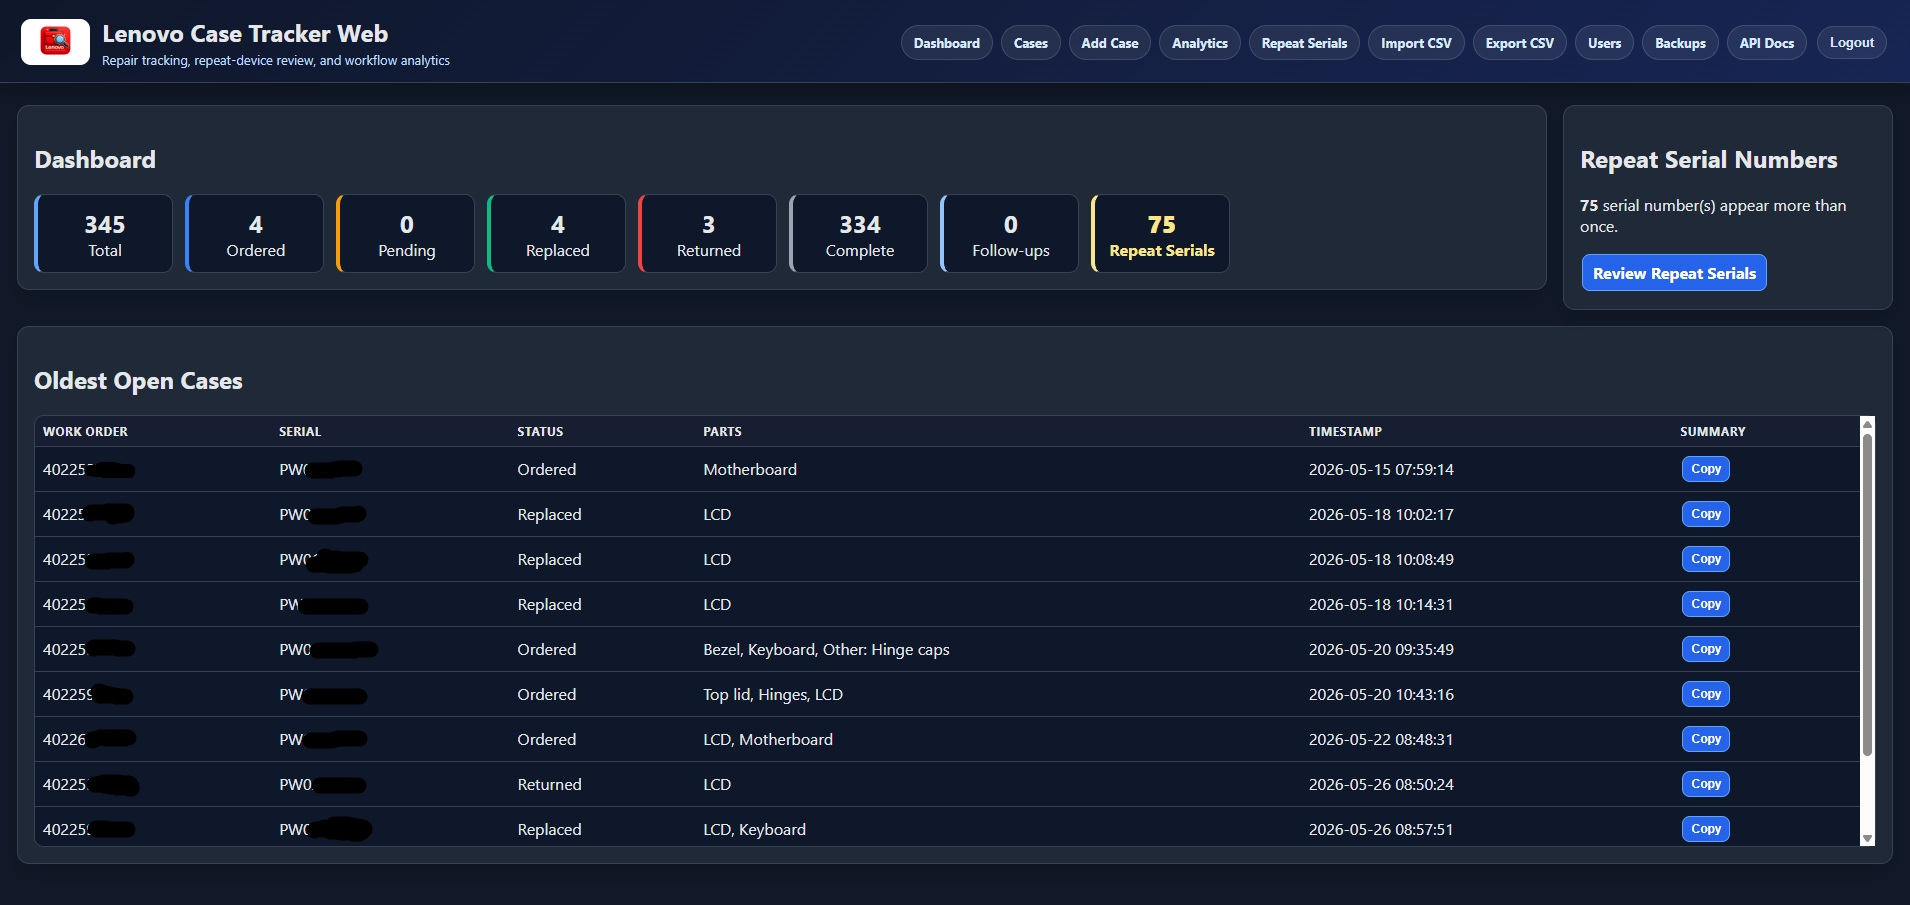
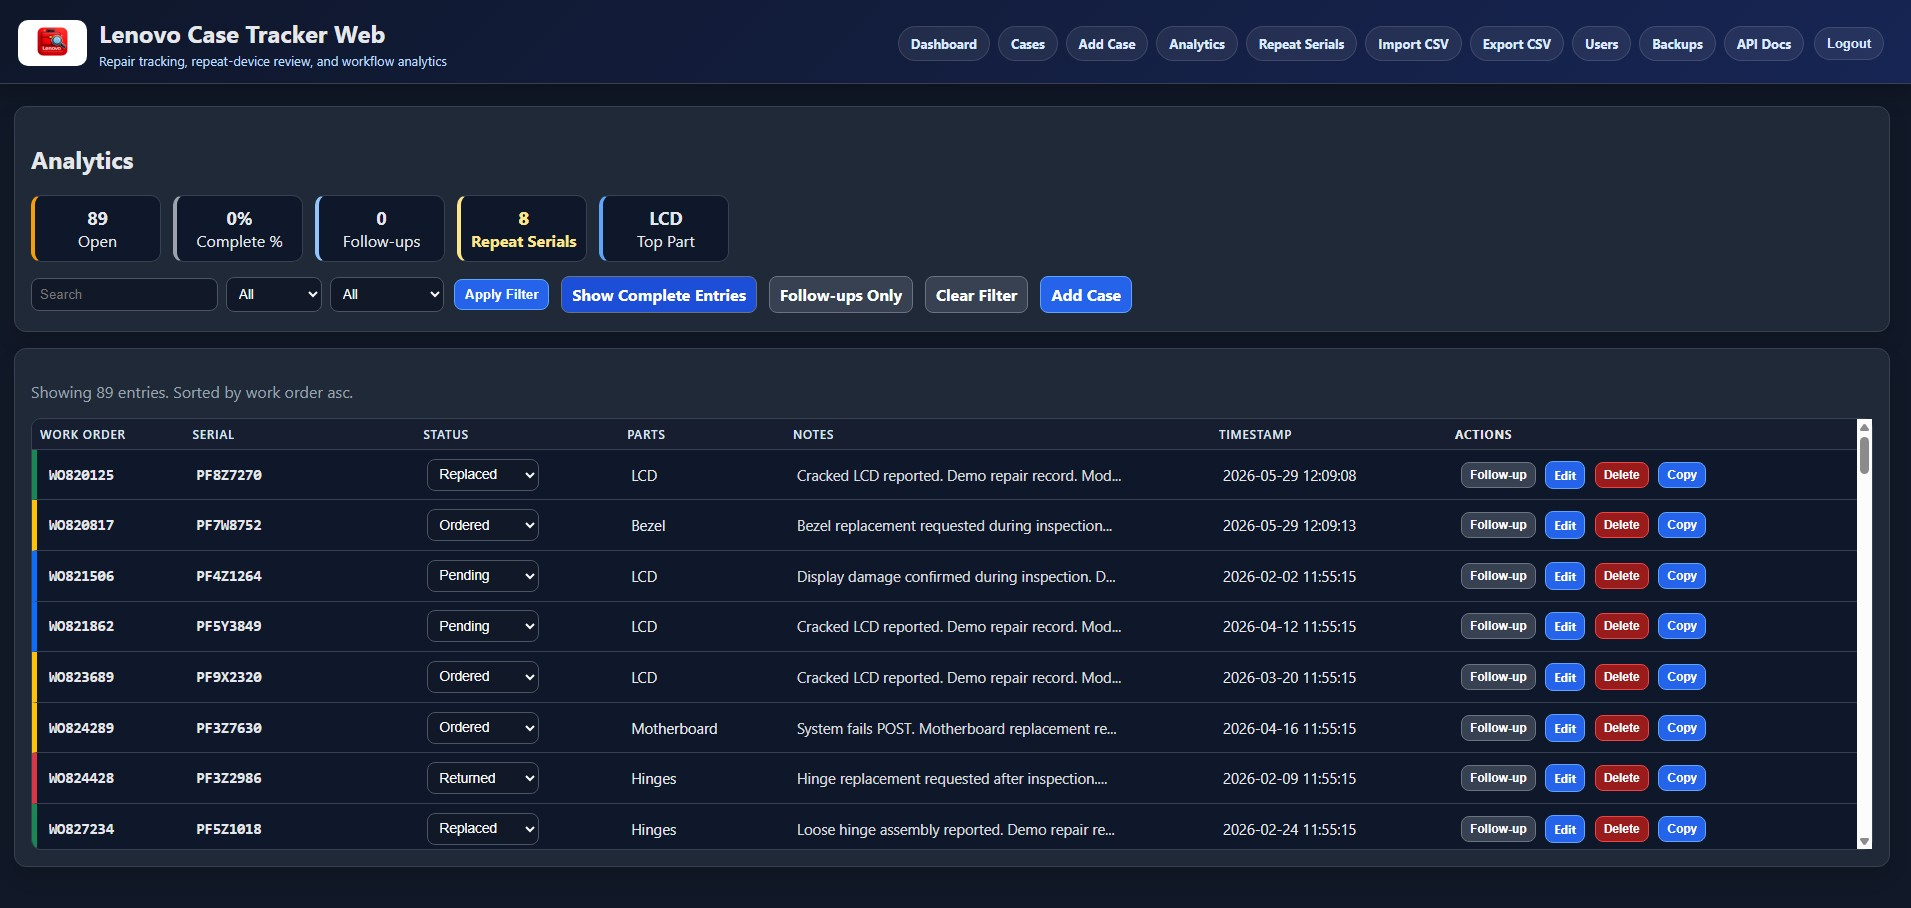
Added demo to README and updated Screenshot

diff --git a/README.md b/README.md
@@ -13,15 +13,33 @@ This project started as a desktop Python utility used for managing daily repair 
 
 ---
 
+
+## 📸 Screenshot
+
+![Lenovo Case Tracker Web Screenshot](assets/LCT_SS.jpg)
+
+---
+
 ## 🚀 Live Demo
 
 👉 https://lenovo-case-tracker-web.onrender.com/
 
 ---
 
-## 📸 Screenshot
+Demo Access
 
-![Lenovo Case Tracker Web Screenshot](assets/LCT_SS.jpg)
+Use the Continue as Demo User button on the login page to explore the application immediately.
+
+The demo environment contains fictional repair records generated for portfolio and demonstration purposes.
+
+Demo users can:
+
+Browse repair cases
+Explore analytics dashboards
+Review repeat serial number detection
+View workflow history
+
+Administrative and destructive actions are restricted.
 
 ---
 